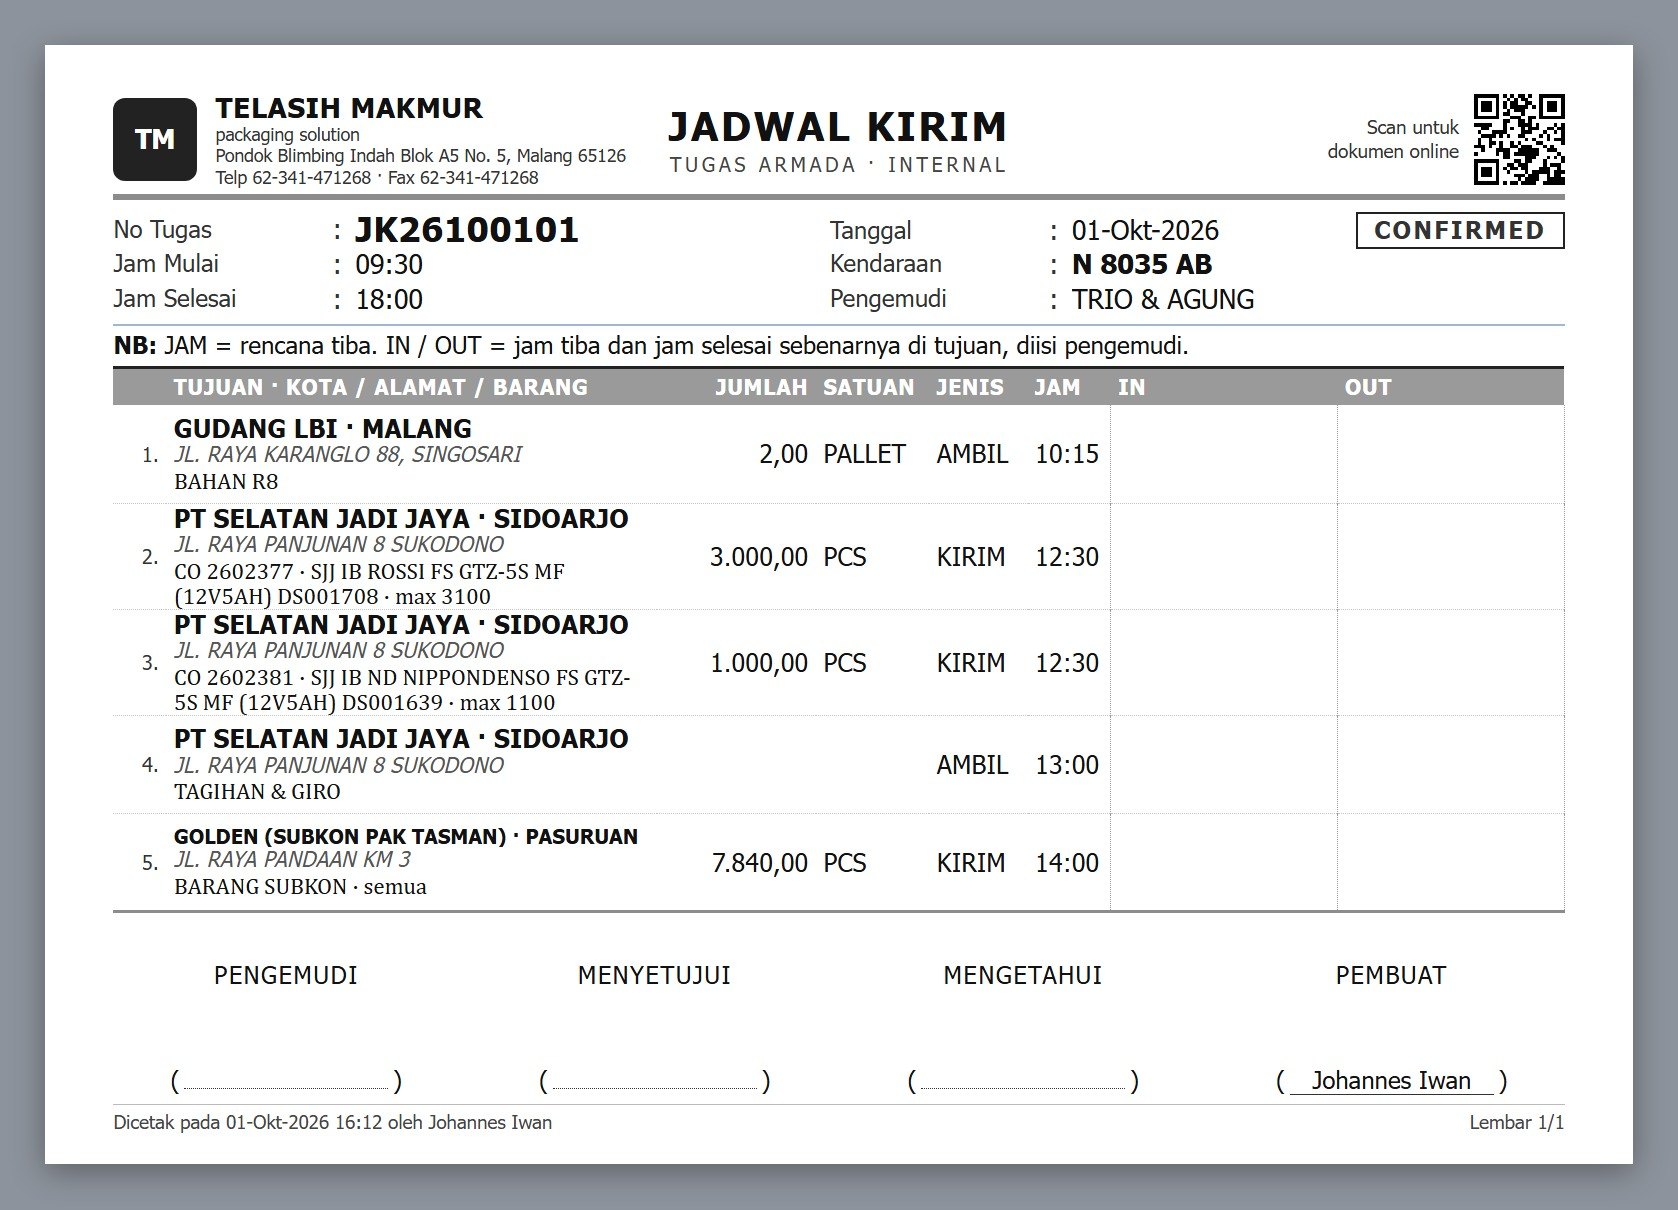
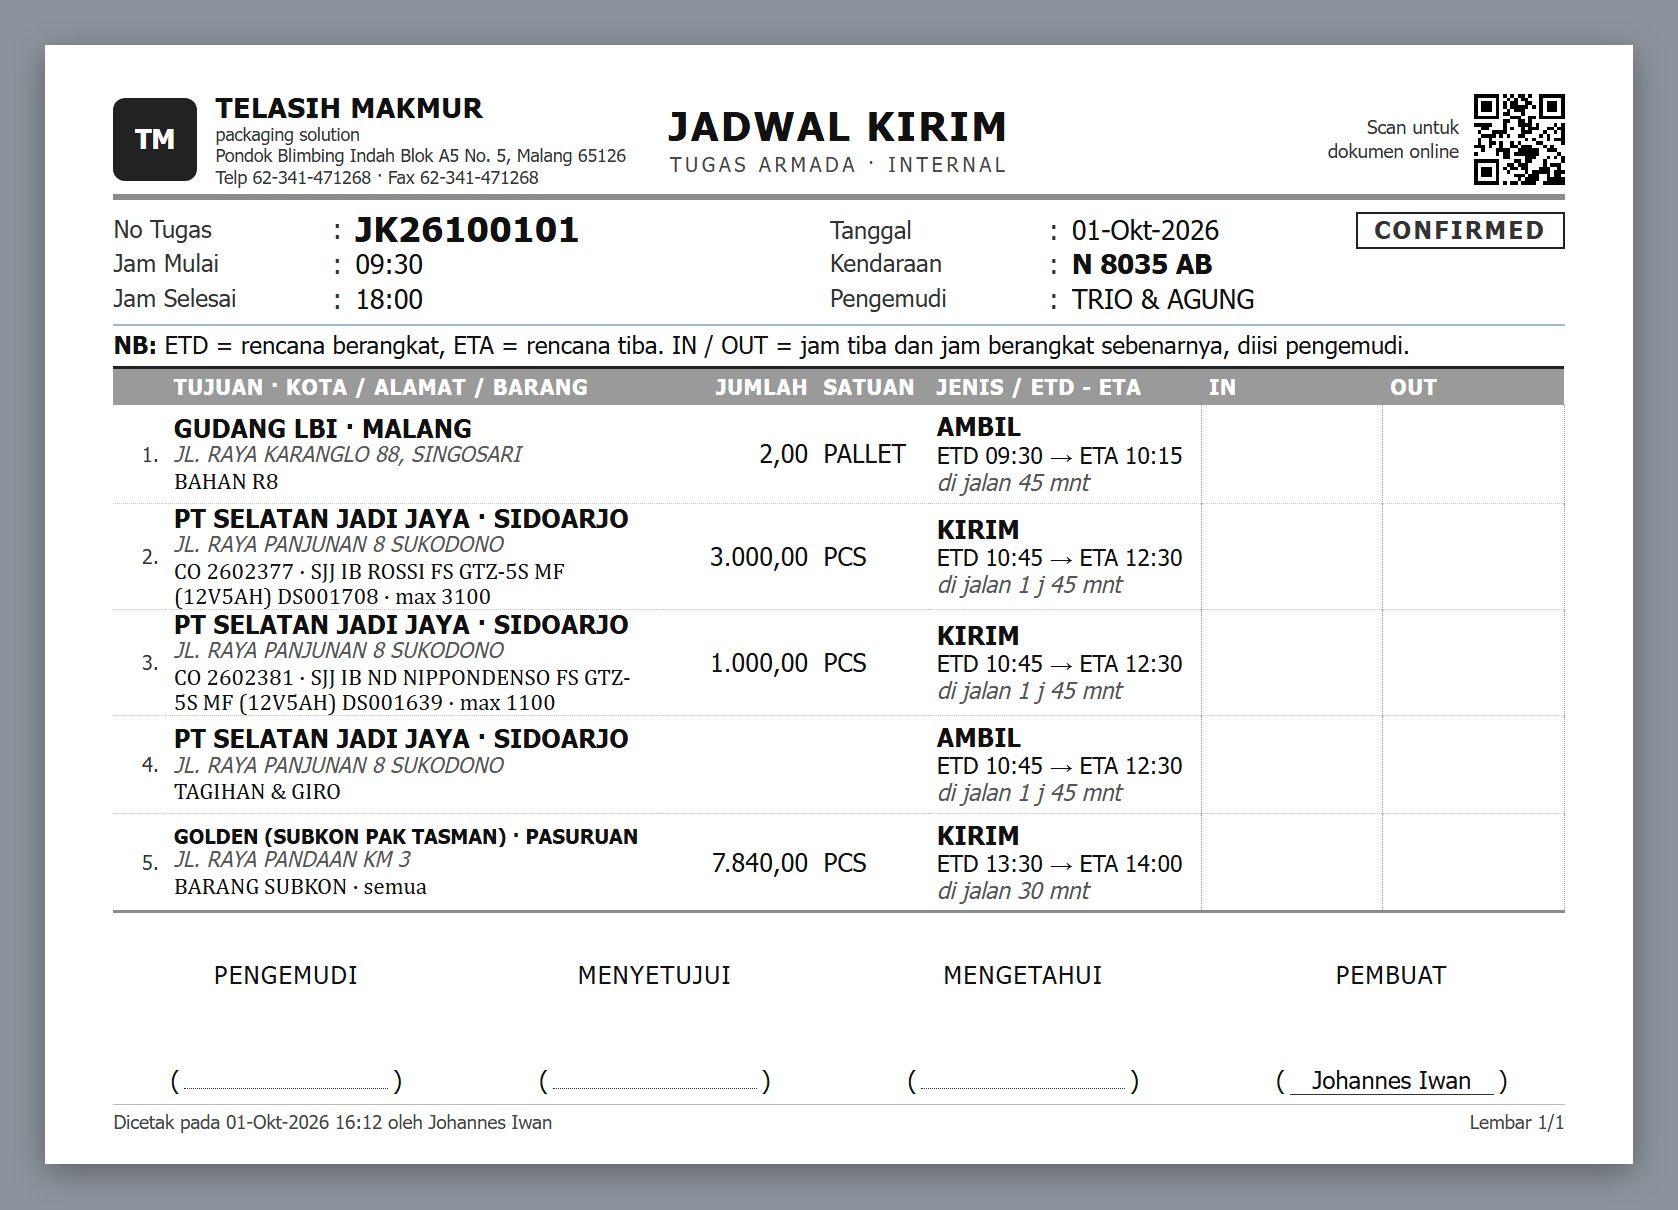
Print mockups: Jadwal Kirim plan uses ETD / ETA with time on the road, stacked in the Jenis column
User 2026-10-01 (rulebook C.24): estimated departure and arrival per stop so the plan shows the travel duration;
IN / OUT stay hand-written actual times.

Changed region(s): [[0.5578, 0.3364, 0.7128, 0.7645], [0.1549, 0.2752, 0.8677, 0.3364], [0.093, 0.2752, 0.124, 0.3058]]

diff --git a/docs/mockups/print_doc/samples.js b/docs/mockups/print_doc/samples.js
@@ -88,29 +88,29 @@ const SAMPLES = {
         data: {...PRINTED, number: 'JK26100101', date: '2026-10-01', status: 'CONFIRMED', start_time: '09:30', finish_time: '18:00', createdBy: 'Johannes Iwan',
             driver: 'TRIO & AGUNG', party: {name: 'N 8035 AB'},
             rows: [
-                {kind: 'AMBIL', time: '10:15', place: 'GUDANG LBI', city: 'MALANG', address: 'JL. RAYA KARANGLO 88, SINGOSARI', item: 'BAHAN R8', qty: 2, unit: 'PALLET'},
-                {kind: 'KIRIM', time: '12:30', place: 'PT SELATAN JADI JAYA', city: 'SIDOARJO', address: 'JL. RAYA PANJUNAN 8 SUKODONO', item: 'SJJ IB ROSSI FS GTZ-5S MF (12V5AH) DS001708', co_no: '2602377', qty: 3000, unit: 'PCS', note: 'max 3100'},
-                {kind: 'KIRIM', time: '12:30', place: 'PT SELATAN JADI JAYA', city: 'SIDOARJO', address: 'JL. RAYA PANJUNAN 8 SUKODONO', item: 'SJJ IB ND NIPPONDENSO FS GTZ-5S MF (12V5AH) DS001639', co_no: '2602381', qty: 1000, unit: 'PCS', note: 'max 1100'},
-                {kind: 'AMBIL', time: '13:00', place: 'PT SELATAN JADI JAYA', city: 'SIDOARJO', address: 'JL. RAYA PANJUNAN 8 SUKODONO', item: 'TAGIHAN & GIRO'},
-                {kind: 'KIRIM', time: '14:00', place: 'GOLDEN (SUBKON PAK TASMAN)', city: 'PASURUAN', address: 'JL. RAYA PANDAAN KM 3', item: 'BARANG SUBKON', qty: 7840, unit: 'PCS', note: 'semua'}]},
+                {kind: 'AMBIL', etd: '09:30', eta: '10:15', place: 'GUDANG LBI', city: 'MALANG', address: 'JL. RAYA KARANGLO 88, SINGOSARI', item: 'BAHAN R8', qty: 2, unit: 'PALLET'},
+                {kind: 'KIRIM', etd: '10:45', eta: '12:30', place: 'PT SELATAN JADI JAYA', city: 'SIDOARJO', address: 'JL. RAYA PANJUNAN 8 SUKODONO', item: 'SJJ IB ROSSI FS GTZ-5S MF (12V5AH) DS001708', co_no: '2602377', qty: 3000, unit: 'PCS', note: 'max 3100'},
+                {kind: 'KIRIM', etd: '10:45', eta: '12:30', place: 'PT SELATAN JADI JAYA', city: 'SIDOARJO', address: 'JL. RAYA PANJUNAN 8 SUKODONO', item: 'SJJ IB ND NIPPONDENSO FS GTZ-5S MF (12V5AH) DS001639', co_no: '2602381', qty: 1000, unit: 'PCS', note: 'max 1100'},
+                {kind: 'AMBIL', etd: '10:45', eta: '12:30', place: 'PT SELATAN JADI JAYA', city: 'SIDOARJO', address: 'JL. RAYA PANJUNAN 8 SUKODONO', item: 'TAGIHAN & GIRO'},
+                {kind: 'KIRIM', etd: '13:30', eta: '14:00', place: 'GOLDEN (SUBKON PAK TASMAN)', city: 'PASURUAN', address: 'JL. RAYA PANDAAN KM 3', item: 'BARANG SUBKON', qty: 7840, unit: 'PCS', note: 'semua'}]},
         alt: {...PRINTED, number: 'JK26100102', date: '2026-10-01', status: 'CONFIRMED', start_time: '07:45', finish_time: '17:00', createdBy: 'Johannes Iwan',
             driver: 'PUJI & DWI', party: {name: 'N 8381 BK'},
             rows: [
-                {kind: 'AMBIL', time: '08:00', place: 'GUDANG LBI (RIT 1)', city: 'MALANG', address: 'JL. RAYA KARANGLO 88, SINGOSARI', item: 'BAHAN R8', qty: 6, unit: 'PALLET'},
-                {kind: 'KIRIM', time: '09:15', place: 'TELASIH MAKMUR', city: 'MALANG', address: 'PONDOK BLIMBING INDAH BLOK A5 NO. 5', item: 'BAHAN R8 DARI GUDANG LBI (BONGKAR)', qty: 6, unit: 'PALLET'},
-                {kind: 'AMBIL', time: '10:00', place: 'GUDANG LBI (RIT 2)', city: 'MALANG', address: 'JL. RAYA KARANGLO 88, SINGOSARI', item: 'BAHAN R8', qty: 2, unit: 'PALLET'},
-                {kind: 'KIRIM', time: '10:45', place: 'TELASIH MAKMUR', city: 'MALANG', address: 'PONDOK BLIMBING INDAH BLOK A5 NO. 5', item: 'BAHAN R8 (BONGKAR) + MUAT KIRIMAN KOTA', qty: 2, unit: 'PALLET'},
-                {kind: 'KIRIM', time: '13:00', place: 'PT. SARANA JAYA SERBAGUNA', city: 'MALANG', address: 'JL. TENAGA BARU 12, BLIMBING', item: 'SJS IB BDM YTUBE 2.50/2.75-14 (DS003437)', co_no: '2602262', qty: 30000, unit: 'PCS', note: 'max 31000'},
-                {kind: 'KIRIM', time: '13:00', place: 'PT. SARANA JAYA SERBAGUNA', city: 'MALANG', address: 'JL. TENAGA BARU 12, BLIMBING', item: 'SJS IB BDM YTUBE 2.50/2.75-17 (DS003438)', co_no: '2602266', qty: 30000, unit: 'PCS', note: 'max 31000'},
-                {kind: 'KIRIM', time: '15:30', place: '93 DONUT', city: 'MALANG', address: 'PERUMAHAN CITRA KAYANE RESIDENCE', item: 'JD BOX DONAT UK 20 X 20 X 6 CM (DS000)', co_no: '2602282', qty: 3000, unit: 'PCS', note: 'semua'}]},
+                {kind: 'AMBIL', etd: '07:45', eta: '08:00', place: 'GUDANG LBI (RIT 1)', city: 'MALANG', address: 'JL. RAYA KARANGLO 88, SINGOSARI', item: 'BAHAN R8', qty: 6, unit: 'PALLET'},
+                {kind: 'KIRIM', etd: '09:00', eta: '09:15', place: 'TELASIH MAKMUR', city: 'MALANG', address: 'PONDOK BLIMBING INDAH BLOK A5 NO. 5', item: 'BAHAN R8 DARI GUDANG LBI (BONGKAR)', qty: 6, unit: 'PALLET'},
+                {kind: 'AMBIL', etd: '09:45', eta: '10:00', place: 'GUDANG LBI (RIT 2)', city: 'MALANG', address: 'JL. RAYA KARANGLO 88, SINGOSARI', item: 'BAHAN R8', qty: 2, unit: 'PALLET'},
+                {kind: 'KIRIM', etd: '10:30', eta: '10:45', place: 'TELASIH MAKMUR', city: 'MALANG', address: 'PONDOK BLIMBING INDAH BLOK A5 NO. 5', item: 'BAHAN R8 (BONGKAR) + MUAT KIRIMAN KOTA', qty: 2, unit: 'PALLET'},
+                {kind: 'KIRIM', etd: '12:30', eta: '13:00', place: 'PT. SARANA JAYA SERBAGUNA', city: 'MALANG', address: 'JL. TENAGA BARU 12, BLIMBING', item: 'SJS IB BDM YTUBE 2.50/2.75-14 (DS003437)', co_no: '2602262', qty: 30000, unit: 'PCS', note: 'max 31000'},
+                {kind: 'KIRIM', etd: '12:30', eta: '13:00', place: 'PT. SARANA JAYA SERBAGUNA', city: 'MALANG', address: 'JL. TENAGA BARU 12, BLIMBING', item: 'SJS IB BDM YTUBE 2.50/2.75-17 (DS003438)', co_no: '2602266', qty: 30000, unit: 'PCS', note: 'max 31000'},
+                {kind: 'KIRIM', etd: '15:00', eta: '15:30', place: '93 DONUT', city: 'MALANG', address: 'PERUMAHAN CITRA KAYANE RESIDENCE', item: 'JD BOX DONAT UK 20 X 20 X 6 CM (DS000)', co_no: '2602282', qty: 3000, unit: 'PCS', note: 'semua'}]},
         dev: {
             title: 'Perubahan terhadap format sekarang (docs/attachments/expedisi.jpg, tabel Excel)',
-            marks: [[1, '[data-k=number]', -5, 0], [2, '[data-k=party]', -5, 0], [3, 'thead th:nth-child(2)', -1, -2.5], [4, 'thead th:nth-child(5)', 0, -2.5], [5, 'thead th:nth-child(7)', 0, -2.5], [6, '.sign', -5, 0]],
+            marks: [[1, '[data-k=number]', -5, 0], [2, '[data-k=party]', -5, 0], [3, 'thead th:nth-child(2)', -1, -2.5], [4, 'thead th:nth-child(5)', 0, -2.5], [5, 'thead th:nth-child(6)', 0, -2.5], [6, '.sign', -5, 0]],
             legend: [
                 '<b>Satu lembar per tugas armada</b> (di Excel: banyak tugas dalam satu halaman). Diberi nomor tugas supaya bisa dilacak; format nomor menunggu keputusan.',
                 '<b>No Pol dan Pengemudi</b> masuk blok kanan; Jam Mulai / Jam Selesai di kiri. Blok atas hanya 3 baris, sisanya dipakai untuk tinggi baris.',
                 '<b>Tiga baris per perhentian</b>: nama tujuan / tempat ambil + kota, alamat, lalu barang + No CO.',
-                '<b>Jenis</b> AMBIL atau KIRIM dan <b>Jam</b> rencana tiba, satu baris per perhentian.',
+                '<b>Jenis</b> AMBIL atau KIRIM, <b>ETD / ETA</b> (rencana berangkat dan tiba) dan <b>lama di jalan</b>, ditumpuk tiga baris di satu kolom.',
                 '<b>IN / OUT</b> kolom lebar dan tinggi untuk tulis tangan (jam sebenarnya).',
                 '<b>Tanda tangan</b> dari kiri ke kanan: Pengemudi, Menyetujui, Mengetahui, Pembuat.',
             ],

diff --git a/docs/mockups/print_doc/documents.js b/docs/mockups/print_doc/documents.js
@@ -114,6 +114,9 @@ PrintDoc.register(class PurchaseOrder extends PrintDoc {
 
 // Acuan kertas: docs/attachments/expedisi.jpg (Jadwal Kirim; satu lembar per tugas armada).
 // Satu baris = satu perhentian, TIGA baris teks: nama tujuan / tempat ambil + kota, alamat, lalu barang + No CO.
+// ETD = rencana berangkat menuju perhentian itu, ETA = rencana tiba; selisihnya = lama di jalan (dihitung). Ketiganya
+// ditumpuk di kolom JENIS: AMBIL / KIRIM, ETD - ETA, lama di jalan (keputusan user 2026-10-01: rencana lebih matang).
+// IN / OUT = kenyataan, ditulis tangan pengemudi.
 // Ruang kosong blok atas (3 baris field saja) dan zona penutup dipindah ke tinggi baris, dan kolom barang dihapus,
 // supaya kolom tulis tangan IN / OUT besar (keputusan user 2026-10-01).
 PrintDoc.register(class JadwalKirim extends PrintDoc {
@@ -126,18 +129,24 @@ PrintDoc.register(class JadwalKirim extends PrintDoc {
     ];
     static partyLabel = 'Kendaraan';
     static side = {key: 'driver', label: 'Pengemudi'};
-    static nb = '<b>NB:</b>&nbsp;JAM = rencana tiba. IN / OUT = jam tiba dan jam selesai sebenarnya di tujuan, diisi pengemudi.';
+    static nb = '<b>NB:</b>&nbsp;ETD = rencana berangkat, ETA = rencana tiba. IN / OUT = jam tiba dan jam berangkat sebenarnya, diisi pengemudi.';
     static nameLabel = 'TUJUAN &middot; KOTA / ALAMAT / BARANG';
-    static extra = [{key: 'kind', label: 'JENIS', width: 13}, {key: 'time', label: 'JAM', width: 11}, {key: 'in', label: 'IN', width: 30, hand: true}, {key: 'out', label: 'OUT', width: 30, hand: true}];
+    static extra = [{key: 'plan', label: 'JENIS / ETD - ETA', width: 36, type: 'html'}, {key: 'in', label: 'IN', width: 24, hand: true}, {key: 'out', label: 'OUT', width: 24, hand: true}];
     static receivers = [['Pengemudi', '']];
     static infoRows = 3;
     static tailHeight = 2;
     static rowHeight = 13;
     static rows = {a5: 5, a4: 15};
+    // Lama di jalan dari dua jam 'HH:MM' -> '45 mnt' / '1 j 45 mnt'.
+    static road(etd, eta) {
+        const min = t => { const [h, m] = t.split(':'); return h * 60 + +m; }, d = min(eta) - min(etd), h = Math.floor(d / 60), m = d % 60;
+        return [h && `${h} j`, m && `${m} mnt`].filter(Boolean).join(' ') || '0 mnt';
+    }
 
     constructor(data) {
         super({...data, rows: data.rows.map(r => ({...r, name: [r.place, r.city].filter(Boolean).join(' · '), sub: r.address,
-            sub2: [r.co_no && 'CO ' + r.co_no, r.item, r.note].filter(Boolean).join(' · ')}))});
+            sub2: [r.co_no && 'CO ' + r.co_no, r.item, r.note].filter(Boolean).join(' · '),
+            plan: `<b>${esc(r.kind)}</b><span>ETD ${esc(r.etd)} &rarr; ETA ${esc(r.eta)}</span><span>di jalan ${JadwalKirim.road(r.etd, r.eta)}</span>`}))});
     }
 });
 

diff --git a/docs/mockups/print_doc/printdoc.js b/docs/mockups/print_doc/printdoc.js
@@ -49,7 +49,7 @@ class PrintDoc {
     static side = null;                 // 1 slot kanan (baris 6)
     static nb = '';
     static nameLabel = 'NAMA BARANG';
-    static extra = [];                  // kolom zona varian: {key, label, width(mm), type: text|date|money|int, hand?}
+    static extra = [];                  // kolom zona varian: {key, label, width(mm), type: text|date|money|int|html (html = sudah berupa HTML aman), hand?}
     static priced = false;              // true = kolom harga + kotak total rupiah + terbilang
     static receivers = [];              // tanda tangan pihak luar / penerima, paling kiri: [peran, keterangan]
     static internal = ['', '', ''];     // keterangan di bawah Mengetahui, Menyetujui, Pembuat
@@ -78,7 +78,7 @@ class PrintDoc {
     val(def, src = this.d) {
         const v = src[def.key];
         if (v == null || v === '') return def.hand ? '<span class="hand"></span>' : '&mdash;';
-        return def.type === 'date' ? Fmt.date(v) : def.type === 'money' ? Fmt.num(v) : def.type === 'int' ? Fmt.num(v, 0) : esc(v);
+        return def.type === 'date' ? Fmt.date(v) : def.type === 'money' ? Fmt.num(v) : def.type === 'int' ? Fmt.num(v, 0) : def.type === 'html' ? v : esc(v);
     }
 
     row(def) { return def && def.label ? `<div class="f" data-k="${def.key}"><span>${esc(def.label)}</span><i>:</i><b>${this.val(def)}</b></div>` : '<div class="f"></div>'; }

diff --git a/docs/mockups/print_doc/printdoc.css b/docs/mockups/print_doc/printdoc.css
@@ -65,6 +65,11 @@ table.items{width:100%;border-collapse:collapse;border-top:.5mm solid #222;borde
    1 tujuan + kota = Tahoma tebal; 2 alamat = Tahoma miring abu-abu; 3 barang = huruf berkait (Cambria) tegak hitam. */
 .doc-JadwalKirim .n1{font-weight:700;font-size:9.5pt}
 .doc-JadwalKirim .n2{font-style:italic;color:#555}
+/* Kolom JENIS / ETA / ETD: tiga baris bertumpuk */
+.doc-JadwalKirim td[data-c=plan]{white-space:normal;line-height:1.2}
+.doc-JadwalKirim td[data-c=plan] b{display:block;font-weight:700;font-size:9.5pt}
+.doc-JadwalKirim td[data-c=plan] span{display:block;font-size:8.5pt;white-space:nowrap}
+.doc-JadwalKirim td[data-c=plan] span+span{color:#555;font-style:italic}
 .doc-JadwalKirim .n3{font-family:Cambria,Georgia,"Times New Roman",serif;font-size:8.5pt;color:#111}
 
 /* 5. Zona penutup: catatan kiri, kotak total kanan (tinggi tetap) */

diff --git a/docs/globaluserrules.md b/docs/globaluserrules.md
@@ -209,6 +209,8 @@
     perhentian, **tiga baris teks**: nama tujuan / tempat ambil + kota, alamat, lalu barang yang dikirim / diambil (+ No
     CO). Ruang kosong blok atas dipakai untuk tinggi baris, dan **kolom tulis tangan IN / OUT dibuat besar**. Tiga
     baris itu **dibedakan gaya dan jenis hurufnya**: tujuan + kota tebal, alamat miring abu-abu, barang huruf berkait.
+    Rencana memakai istilah **ETD (rencana berangkat) dan ETA (rencana tiba)**, ditumpuk di kolom Jenis bersama AMBIL /
+    KIRIM dan **lama di jalan** (ETA - ETD); IN / OUT = jam sebenarnya, tulis tangan.
 25. **Form ProDev berlatar putih — user 2026-10-01:** workbench Imposition (dulu gelap/navy) memakai **latar putih** seperti
     layar lain, warnanya lewat token tema DevLib (bukan hex). Tata letak dan isi tidak berubah; area gambar berlatar abu muda
     supaya lembar cetak (putih) tetap terlihat. Pratinjau & cetak Master Card tidak berubah.
